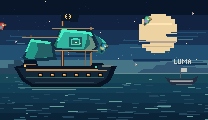
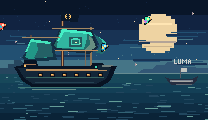
Polish the pixel sea and refresh the stage notes

Changed region(s): [[0.4615, 0.35, 0.5192, 0.425], [0.6923, 0.125, 0.75, 0.225], [0.0, 0.175, 0.0577, 0.25]]

diff --git a/public/hackersbay/assets/sea.js b/public/hackersbay/assets/sea.js
@@ -24,14 +24,18 @@ function letters(box, pixels, color, x, y) {
   pixels.forEach((row, j) => [...row].forEach((bit, i) => { if (bit === '1') box(color,x+i,y+j,1,1); }));
 }
 
-function backdrop(canvas, dusk) {
+function backdrop(canvas, phase) {
   const ctx = canvas.getContext('2d');
   const { box, poly } = pixelPainter(ctx);
-  const sky = dusk ? ['#161a3a','#2c2548','#4a3655','#74465c','#b76562'] : ['#091629','#112341','#183354','#225072','#457587'];
-  const water = dusk ? ['#243959','#183752','#123149','#102c42','#0b2135'] : ['#17485a','#133f56','#10364d','#0e2d43','#0a2337'];
+  const dusk = phase === 'dusk';
+  const day = phase === 'day';
+  const sky = day ? ['#31567d','#3a7191','#518daa','#78a6ac','#b4c5ad']
+    : dusk ? ['#161a3a','#2c2548','#4a3655','#74465c','#b76562'] : ['#091629','#112341','#183354','#225072','#457587'];
+  const water = day ? ['#37818a','#297384','#206176','#1d536b','#19485e']
+    : dusk ? ['#243959','#183752','#123149','#102c42','#0b2135'] : ['#17485a','#133f56','#10364d','#0e2d43','#0a2337'];
   sky.forEach((color, i) => box(color, 0, i * 15, SEA_WIDTH, 15));
   water.forEach((color, i) => box(color, 0, WATER + i * 10, SEA_WIDTH, 10));
-  for (let i = 0; i < stars.length; i += 3) {
+  for (let i = 0; !day && i < stars.length; i += 3) {
     const x = Math.floor(stars[i] * SEA_WIDTH);
     const y = Math.floor(stars[i+1] * 65);
     const intensity = stars[i+2];
@@ -116,13 +120,23 @@ export function makeSea(canvas) {
   canvas.height = SEA_HEIGHT;
   const ctx = canvas.getContext('2d', {alpha:false});
   const paint = pixelPainter(ctx);
-  const plates = [false, true].map(dusk => {
+  const plates = ['night', 'dusk', 'day'].map(phase => {
     const plate = document.createElement('canvas');
     plate.width = SEA_WIDTH;
     plate.height = SEA_HEIGHT;
-    backdrop(plate, dusk);
+    backdrop(plate, phase);
     return plate;
   });
+  const flock = [[9,22,0],[111,43,1],[154,17,4]].map(([offset, altitude, palette]) => {
+    const frames = [false, true].map(flight => {
+      const bird = document.createElement('canvas');
+      bird.width = bird.height = 22;
+      paintParrot(bird.getContext('2d'), {...DEFAULT_PIRATE, bird:palette, birdHat:0}, 0, 0, flight);
+      return bird;
+    });
+    return {offset, altitude, frames};
+  });
+  ctx.imageSmoothingEnabled = false;
 
   return (seconds = 0, duskOnly = false) => {
     const t = seconds % SEA_LOOP;
@@ -131,6 +145,10 @@ export function makeSea(canvas) {
     const dusk = duskOnly ? 1 : Math.max(0, Math.sin(t / SEA_LOOP * Math.PI) - .3);
     ctx.globalAlpha = dusk;
     ctx.drawImage(plates[1], 0, 0);
+    if (!duskOnly && t > 7.5 && t < 15.5) {
+      ctx.globalAlpha = Math.max(0, 1 - Math.abs(t - 11.5) / 4);
+      ctx.drawImage(plates[2], 0, 0);
+    }
     ctx.globalAlpha = 1;
 
     const { box } = paint;
@@ -167,14 +185,10 @@ export function makeSea(canvas) {
       box('#ffeb9a',rowX+17,rowY-5,5,5);
     }
 
-    for (const [offset, altitude, palette] of [[9,22,0],[111,43,1],[154,17,4]]) {
+    for (const {offset, altitude, frames} of flock) {
       const x = Math.floor(((offset + t * 11) % 240) - 16);
       const y = Math.round(altitude + Math.sin(t * 2.3 + offset) * 3);
-      ctx.save();
-      ctx.translate(x,y);
-      ctx.scale(.55,.55);
-      paintParrot(ctx, {...DEFAULT_PIRATE, bird:palette, birdHat:0}, 0, 0, Math.floor(t*7+offset)%2===0);
-      ctx.restore();
+      ctx.drawImage(frames[Math.floor(t * 7 + offset) % 2], x, y, 12, 12);
     }
   };
 }

diff --git a/public/hackersbay/assets/bay.css b/public/hackersbay/assets/bay.css
@@ -18,7 +18,7 @@
   --ink: #eef7f6;
   --muted: #9cafbd;
   --line: #203749;
-  --gold: #f1cb84;
+  --gold: #ffc66b;
   --mono: "JetBrains Mono", monospace;
   --edge: clamp(20px, 5vw, 64px);
 }
@@ -176,7 +176,6 @@ h1, h2, h3, p { margin-top: 0; }
 .face-grid { display: grid; grid-template-columns: repeat(8, minmax(0, 1fr)); gap: 7px; max-width: 412px; }
 .crew-list { list-style: none; padding: 0; margin: 0; display: grid; gap: 10px; }
 .crew-list li { display: flex; align-items: center; gap: 10px; line-height: 1.4; }
-.crew-list .crew-sprite { width: 34px; }
 .crew-list strong, .crew-list small { display: block; }
 .crew-list strong { font-size: 14px; }
 .crew-list small { font-size: 12px; color: #a8bdc4; }
@@ -282,7 +281,6 @@ input::placeholder { color: #8aa2b3; }
 .match-card header { display: flex; align-items: center; gap: 11px; }
 .match-card h3 { margin: 0; font-size: 19px; }
 .match-card header p { margin: 0; }
-.match-card .crew-sprite { width: 44px; }
 
 .match-mark { margin-left: auto; align-self: start; white-space: nowrap; color: var(--gold); font: 600 12px var(--mono); }
 .match-reasons { margin-bottom: 0; font-size: 13px; }
@@ -338,7 +336,6 @@ input::placeholder { color: #8aa2b3; }
 .applicant-heading input, .report-projects select { margin-bottom: 0; }
 .applicant, .report-card { padding: 16px; }
 .applicant header, .report-card header { display: flex; align-items: center; gap: 10px; margin: 0 0 8px; }
-.applicant .crew-sprite, .report-card .crew-sprite { width: 40px; }
 .applicant header h3, .report-card header h3 { margin: 0; font-size: 19px; }
 .applicant header p, .report-card header p { margin: 0; }
 .applicant > p, .report-card > p { font-size: 13px; margin-bottom: 7px; }
@@ -511,7 +508,6 @@ input[type="checkbox"] { width: 17px; min-height: 17px; height: 17px; margin: 0;
 }
 :root {
   --pixel: Silkscreen, "JetBrains Mono", monospace;
-  --gold: #ffc66b;
   --parrot: #ff5a4e;
   --parchment: #f3e3c0;
   --wood: #6b4426;

diff --git a/public/hackersbay/assets/board.js b/public/hackersbay/assets/board.js
@@ -144,7 +144,13 @@ profileForm.addEventListener('submit', async event => {
 cardForm.addEventListener('submit', event => {
   event.preventDefault();
   const { name, type, builds, wants, offers } = Object.fromEntries(new FormData(cardForm));
-  const card = savePersona({ ...current, name, type, builds, wants, offers, pirate: getAppearance() });
+  const pirate = getAppearance();
+  if (!pirate.birdName) {
+    cardStatus.textContent = 'Give your parrot a name before raising the flag.';
+    cardForm.elements.birdName.focus();
+    return;
+  }
+  const card = savePersona({ ...current, name, type, builds, wants, offers, pirate });
   if (!card) { cardStatus.textContent = 'Add a pirate name and fill in Builds, Wants, and Offers.'; return; }
   location.assign(EVENT_PATH + '?lens=' + encodeURIComponent(card.type));
 });

diff --git a/public/hackersbay/assets/landing.js b/public/hackersbay/assets/landing.js
@@ -38,7 +38,7 @@ let cannonBeat;
 
 function tick(now) {
   const span = now - last;
-  if (span >= 1000 / 30) {
+  if (span >= 15) {
     const previous = elapsed % loopLength;
     elapsed += Math.min(span, 120) / 1000;
     if (previous < cannonBeat && elapsed % loopLength >= cannonBeat) playBaySound('cannon');

diff --git a/SUBMISSION.md b/SUBMISSION.md
@@ -4,11 +4,11 @@ Luma is sinking. The Hackers Bay is coming.
 
 ## Description
 
-The Hackers Bay helps you decide whether an event is worth the trip and gives you three people to meet once you arrive. Choose a persona or paste a public profile to draft an editable crew card. **Broke hacker** checks food, sleep, travel, and prize payouts. **Busy builder** weighs the time against potential collaborators. **Power connector** looks for a reason to make each introduction. **Investor / brand** looks for projects, traction, and sponsor fit.
+The Hackers Bay lets you build an original pixel pirate, outfit a shoulder parrot, and choose how you read an event. **Deckhand** checks food, bunks, travel, and prize payouts. **Navigator** weighs the time against possible co-founders and collaborators. **Quartermaster** looks for people worth introducing one-to-one. **Merchant** tracks projects, traction, and sponsor fit. A public profile link can help your parrot draft Builds, Wants, and Offers.
 
-**Sink a Luma** reads a public listing through any of those lenses, using its published title, date, place, host, and Going count. In the Show Boat Demo Day walkthrough, the sonar locks onto three fictional people and explains why each side might want to meet. Both sides opt in before **IT'S MUTUAL ⚓** reveals a suggested time and place.
+**Sink a Luma** applies those lenses to a public listing using its published title, date, place, host, and Going count. In the Show Boat Demo Day walkthrough, your parrot flies to three fictional pirates on the spyglass, landing to explain why each side might want to meet. Both must opt in to get **IT'S MUTUAL ⚓**, a beak bump, and a suggested moment. Organizers can draft pirates onto a ship deck and see how the room’s connections change.
 
-With credentials, **Context.dev** reads public profiles, **NYTEX TrustedRouter** routes confidential persona inference, and **Boat.dev** runs approved repos in temporary VMs for Proof of Build. Public event imports and shared intro links work on the live site. The walkthrough uses a fictional roster and sample traction. Profile drafting falls back to heuristics, private mode shows a demo label, and Proof of Build opens a labeled sample when live services are unavailable.
+With credentials, **Context.dev** reads public profiles, **NYTEX TrustedRouter** routes confidential persona inference, and **Boat.dev** runs approved repos in temporary VMs for Proof of Build. Public event imports and shared intro links work on the live site. The roster and traction are fictional. Profile drafting falls back to heuristics, private mode shows a demo label, and Proof of Build opens a labeled sample when live services are unavailable.
 
 ## Try it
 

diff --git a/README.md b/README.md
@@ -25,14 +25,14 @@ Then run `node tools/openrisk-import-logos.mjs` to cache missing logos.
 
 ## How to demo in 60 seconds
 
-Open the [vertical autoplay demo](https://corvus.gent/hackersbay/demo?format=vertical) at 1080 × 1920 or the [widescreen autoplay demo](https://corvus.gent/hackersbay/demo?format=wide) at 1920 × 1080. The timed sequence plays on load and holds the end card at 60 seconds. Press **R** to restart or **Space** to pause and resume.
+Open the [vertical autoplay demo](https://corvus.gent/hackersbay/demo?format=vertical) at 1080 × 1920 or the [widescreen autoplay demo](https://corvus.gent/hackersbay/demo?format=wide) at 1920 × 1080. The timed sequence plays on load and holds the end card at 60 seconds. Press **R** to restart, **Space** to pause or resume, or **M** to toggle sound.
 
 For a live walkthrough on a phone:
 
-1. **0–10s** Open [The Hackers Bay](https://corvus.gent/hackersbay) on a phone. Show the guest wall next to three people with reasons to meet.
-2. **10–20s** Tap **Board the ship**, choose **Broke hacker**, and tap **Find my 3 people**. Paste a public profile if you want to show the editable crew card being drafted.
-3. **20–35s** Point to the **Survival score** and tap the first gold X on the sonar. Read **Why you’d meet** and **Why they’d meet**.
-4. **35–50s** Tap **Intro me**, open the fictional recipient view, and tap **Accept intro**. Show **IT’S MUTUAL ⚓** and the suggested meetup.
+1. **0–10s** Open [The Hackers Bay](https://corvus.gent/hackersbay) on a phone. Show The Black Commit firing at the grey rowboat.
+2. **10–20s** Tap **Board the ship**, roll a pirate, name the shoulder parrot, choose **Deckhand**, and tap **Raise the flag**. The parrot can read a public link to draft Builds, Wants, and Offers.
+3. **20–35s** Point to the **Survival score** and the parrot flying between the three spyglass masts. Tap a gold X for both sides of the match.
+4. **35–50s** Tap **Intro me**, open the fictional recipient view, and tap **Accept intro**. Show **IT’S MUTUAL ⚓**, the parrots’ beak bump, and the suggested meetup.
 5. **50–60s** Flip to [Room composer](https://corvus.gent/hackersbay/host) or [Treasure report](https://corvus.gent/hackersbay/sponsor) to show what hosts and sponsors see.
 
 The official Demo Day is invite-only. The app links to official registration, and the in-app roster, traction, scores, and introductions are fictional. Dates and suggested times use Pacific Time.

diff --git a/HACKERSBAY_LOG.md b/HACKERSBAY_LOG.md
@@ -206,3 +206,11 @@ Times are Paris local time. The demo is built around Boat Hackathon Demo Day in 
 - Verified. The share card dimensions, route suite, Remotion asset preparation, and build passed. The judges' brief still fits at 375 × 667, and the footer and demo QR codes scan.
 - Next. Update the stage notes and run the final production smoke across phone widths and both capture formats.
 - **STEER ME:** Keep the cannon impact as the share image or feature a close-up of Copper Byte and Patch.
+
+## H25 · 2026-11-21 09:36 CET · Deck polish
+
+- Shipped the daylight pass, clearer pixel parrots in flight, and a live hero that renders on the browser’s frame clock. Updated the screenshot and share art with the sharper sprites.
+- Decision. Keep the initial night scene as the static poster. The live animation cycles through daylight only while visible. The README and 209-word submission now reflect the pirate-first walkthrough.
+- Verified. Eleven mobile paths passed at 375px and 414px with zero horizontal overflow or undersized standalone controls. The sea renderer measured 5.2 ms at the 95th percentile under a 4× CPU throttle at 375px.
+- Next. Confirm the production deployment, then test the complete flow and the one-minute capture against the live domain.
+- **STEER ME:** Keep the daylight pass after the cannon shot or open in daylight for the next event.
